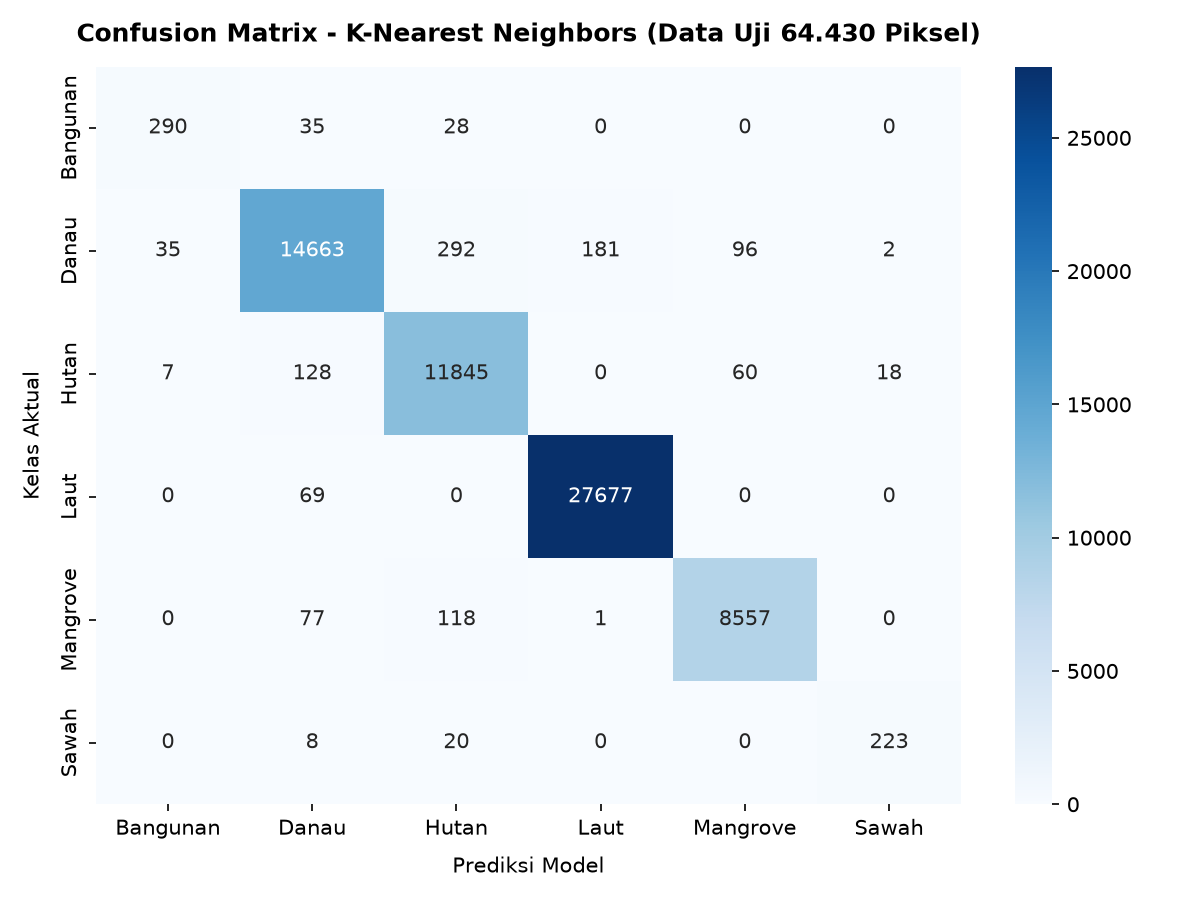
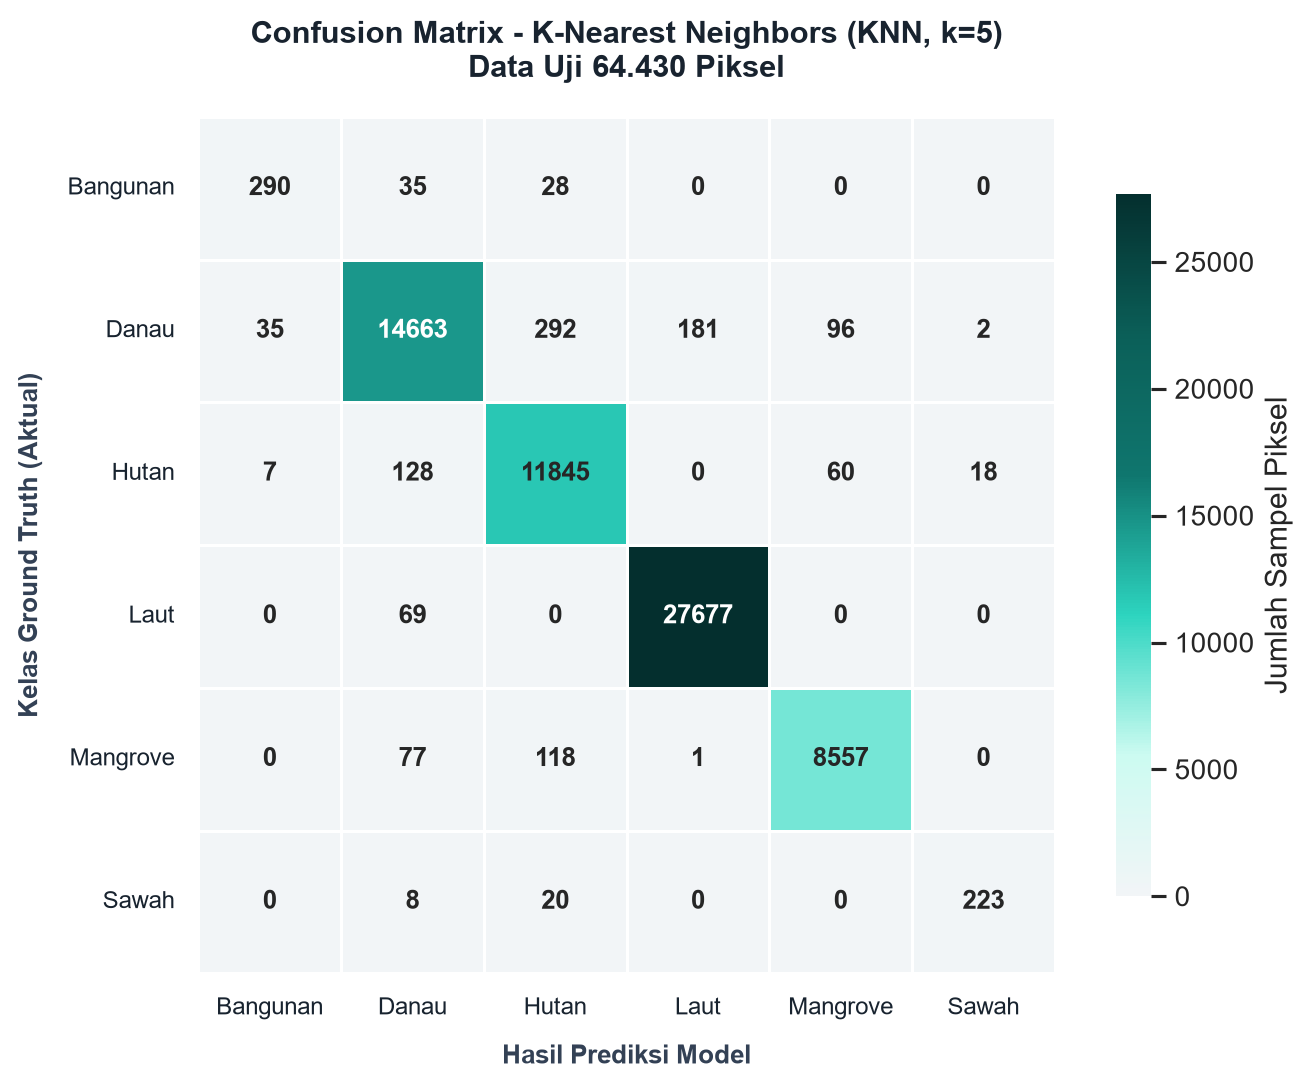
docs: add comprehensive documentation for spatial land cover classification in East Java

diff --git a/streamlit_app.py b/streamlit_app.py
@@ -577,7 +577,7 @@ with col_fi:
 
     p_fi_img = cari_file("kinerja_kelas.png") or cari_file("kepentingan_fitur.png")
     if p_fi_img:
-        st.image(Image.open(p_fi_img), caption="Feature Importance (Gini)", use_container_width=True)
+        st.image(Image.open(p_fi_img), caption="Kinerja Klasifikasi per Kelas (Precision, Recall, F1-Score)", use_container_width=True)
     else:
         p_fi_csv = cari_file("laporan_klasifikasi.csv") or cari_file("kepentingan_fitur.csv")
         if p_fi_csv:

diff --git a/views/klasifikasi-spasial/klasifikasi-jawatimur.md b/views/klasifikasi-spasial/klasifikasi-jawatimur.md
@@ -790,6 +790,64 @@ Model KNN mencapai performa klasifikasi yang sangat tinggi pada data uji indepen
 | **Rata-rata Makro (Macro Avg)** | **0.951** | **0.938** | **0.944** | 64.430 |
 | **Rata-rata Tertimbang (Weighted Avg)** | **0.982** | **0.982** | **0.982** | 64.430 |
 
+```{image} ../../_static/kinerja_kelas.png
+:alt: Kinerja Klasifikasi per Kelas (Model KNN, k=5)
+:align: center
+:width: 90%
+```
+
+```python
+# Visualisasi Diagram Batang Kinerja per Kelas (Palet Tema Teal)
+import matplotlib.pyplot as plt
+import pandas as pd
+import numpy as np
+from sklearn.metrics import classification_report
+
+labels = sorted(y_test.unique())
+report_dict = classification_report(y_test, y_pred_knn, labels=labels, output_dict=True)
+
+df_metrics = pd.DataFrame([
+    {
+        "Kelas": lbl,
+        "Precision": report_dict[lbl]["precision"] * 100,
+        "Recall": report_dict[lbl]["recall"] * 100,
+        "F1-Score": report_dict[lbl]["f1-score"] * 100
+    }
+    for lbl in labels
+])
+
+plt.figure(figsize=(9, 5.5), dpi=150)
+y_indices = np.arange(len(labels))
+bar_height = 0.25
+
+# Tiga bar bersisian dengan variasi saturasi warna teal
+plt.barh(y_indices + bar_height, df_metrics["Precision"], height=bar_height, label="Precision", color="#14B8A6")
+plt.barh(y_indices, df_metrics["Recall"], height=bar_height, label="Recall", color="#5EEAD4")
+plt.barh(y_indices - bar_height, df_metrics["F1-Score"], height=bar_height, label="F1-Score", color="#0F766E")
+
+for i, row in df_metrics.iterrows():
+    plt.text(row["F1-Score"] + 0.8, i - bar_height, f"{row['F1-Score']:.1f}%", va="center", ha="left", fontsize=8.5, fontweight="bold", color="#0F766E")
+    plt.text(row["Recall"] + 0.8, i, f"{row['Recall']:.1f}%", va="center", ha="left", fontsize=8, color="#0D9488")
+    plt.text(row["Precision"] + 0.8, i + bar_height, f"{row['Precision']:.1f}%", va="center", ha="left", fontsize=8, color="#0F766E")
+
+plt.yticks(y_indices, labels, fontsize=10, fontweight="600", color="#18232F")
+plt.xlabel("Skor Performa Evaluasi (%)", fontsize=10.5, fontweight="600", color="#334155", labelpad=8)
+plt.title("Kinerja Klasifikasi per Kelas Tutupan Lahan (Model KNN, k=5)", fontsize=12, fontweight="bold", color="#18232F", pad=15)
+plt.xlim(0, 115)
+plt.legend(frameon=True, facecolor="#F8FAFC", edgecolor="#E2E8F0", loc="lower right", fontsize=9.5)
+plt.grid(axis="x", linestyle="--", alpha=0.5, color="#CBD5E1")
+plt.gca().set_axisbelow(True)
+
+for spine in ["top", "right"]:
+    plt.gca().spines[spine].set_visible(False)
+plt.gca().spines["left"].set_color("#CBD5E1")
+plt.gca().spines["bottom"].set_color("#CBD5E1")
+
+plt.tight_layout()
+plt.savefig("kinerja_kelas.png", dpi=180, bbox_inches="tight")
+plt.show()
+```
+
 ---
 
 ### 5.2. Analisis Confusion Matrix
@@ -803,6 +861,50 @@ Matriks konfusi pada data uji menunjukkan separasi yang sangat tegas antar-kelas
 | **Laut** | 0 | 69 | 0 | **27.677** | 0 | 0 | 27.746 |
 | **Mangrove** | 0 | 77 | 118 | 1 | **8.557** | 0 | 8.753 |
 | **Sawah** | 0 | 8 | 20 | 0 | 0 | **223** | 251 |
+
+```{image} ../../_static/confusion_matrix.png
+:alt: Confusion Matrix K-Nearest Neighbors (Data Uji 64.430 Piksel)
+:align: center
+:width: 82%
+```
+
+```python
+# Visualisasi Confusion Matrix dengan Colormap Tema Teal
+import matplotlib.colors as mcolors
+import seaborn as sns
+from sklearn.metrics import confusion_matrix
+
+# Gradien tema kehijauan (Teal) selaras antarmuka Streamlit
+cmap_teal = mcolors.LinearSegmentedColormap.from_list(
+    "psd_teal_theme",
+    ["#F2F5F7", "#CCFBF1", "#2DD4BF", "#0F766E", "#0B5F58", "#042F2E"]
+)
+
+cm = confusion_matrix(y_test, y_pred_knn, labels=labels)
+cm_df = pd.DataFrame(cm, index=labels, columns=labels)
+
+plt.figure(figsize=(8, 6.2), dpi=150)
+sns.heatmap(
+    cm_df,
+    annot=True,
+    fmt='d',
+    cmap=cmap_teal,
+    cbar=True,
+    linewidths=1.2,
+    linecolor="#FFFFFF",
+    square=True,
+    annot_kws={"size": 10.5, "weight": "bold"},
+    cbar_kws={"shrink": 0.82, "label": "Jumlah Sampel Piksel"}
+)
+plt.title("Confusion Matrix - K-Nearest Neighbors (KNN, k=5)\nData Uji 64.430 Piksel", 
+          fontsize=12, fontweight="bold", color="#18232F", pad=15)
+plt.xlabel("Hasil Prediksi Model", fontsize=10.5, fontweight="600", color="#334155", labelpad=10)
+plt.ylabel("Kelas Ground Truth (Aktual)", fontsize=10.5, fontweight="600", color="#334155", labelpad=10)
+
+plt.tight_layout()
+plt.savefig("confusion_matrix.png", dpi=180, bbox_inches="tight")
+plt.show()
+```
 
 **Temuan Utama Evaluasi**:
 1. **Perairan Terbuka (Laut)** memiliki akurasi tertinggi ($99.5\%$ F1-Score) karena penyerapan total pada band NIR dan SWIR membedakannya secara sempurna dari daratan.
